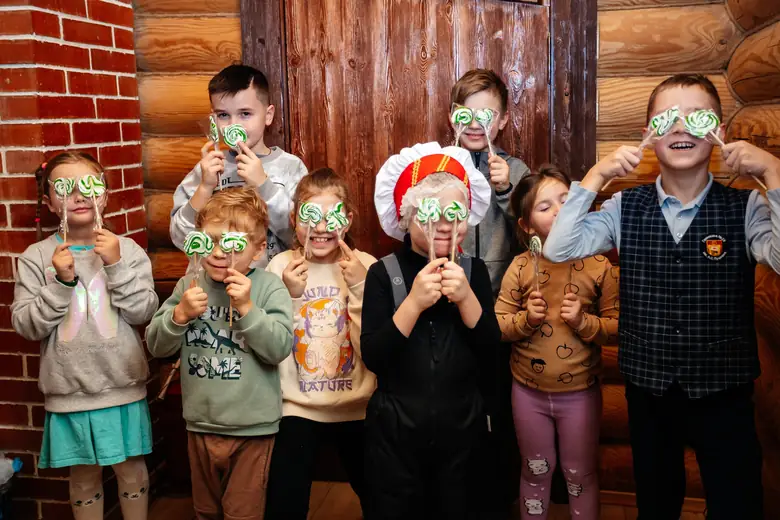
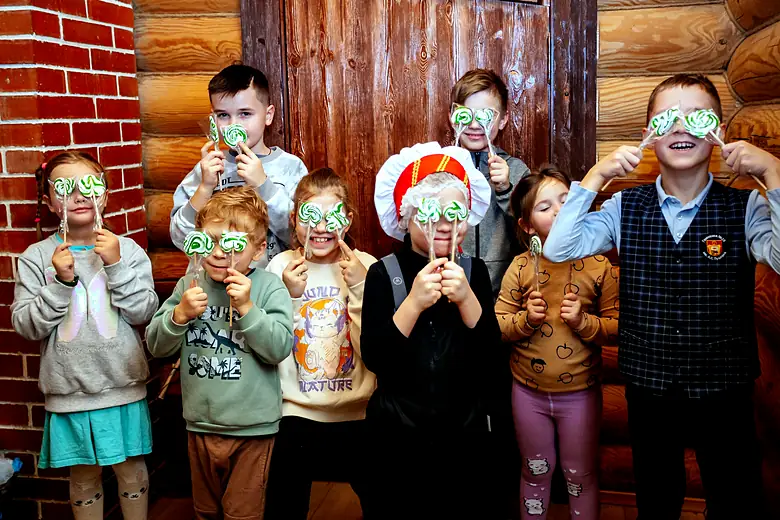
Лента фото: цветокоррекция пяти кадров
Кадры из папки «для обработки» (p15, p17, p18, p19, p46) пересобраны
из исходников: подъём теней, точки чёрного и белого, контраст,
насыщенность. У снимков в срубе перед подъёмом цвета частично выправлен
оранжевый перекос, иначе они становились не красочнее, а рыжее.
Размеры не менялись, обновлены средние цвета-заглушки.

diff --git a/v2.html b/v2.html
@@ -1653,12 +1653,12 @@ body{
   var PH = [
     [390,'#747c91'], [693,'#413124'], [390,'#887f84'], [390,'#7c402e'], [390,'#323518'], [405,'#572d49'],
     [390,'#1b4a19'], [693,'#2a1709'], [780,'#734f41'], [390,'#8e7170'], [390,'#01112b'], [390,'#956757'],
-    [921,'#4a4648'], [411,'#0f2d1c'], [829,'#5d4a44'], [390,'#3e2e32'], [780,'#6f4e3f'], [757,'#0b1927'],
-    [390,'#7c6554'], [390,'#775247'], [390,'#09161b'], [390,'#6b3524'], [390,'#371805'], [384,'#211435'],
+    [921,'#4a4648'], [411,'#0f2d1c'], [829,'#654f49'], [390,'#3e2e32'], [780,'#684d40'], [757,'#071a2c'],
+    [390,'#84705f'], [390,'#775247'], [390,'#09161b'], [390,'#6b3524'], [390,'#371805'], [384,'#211435'],
     [390,'#ac897a'], [390,'#8a6663'], [390,'#201512'], [390,'#684940'], [390,'#4c3e45'], [743,'#6d4f40'],
     [390,'#3f2444'], [390,'#775952'], [418,'#4e2b20'], [382,'#696c6e'], [390,'#867d69'], [390,'#7a5d4b'],
     [780,'#5a494e'], [390,'#72472e'], [390,'#8e7982'], [390,'#292528'], [390,'#60392d'], [390,'#3f251c'],
-    [390,'#432f22'], [637,'#5f5565'], [347,'#885950'], [861,'#614c3b'], [390,'#734d3f'], [390,'#845e4f'],
+    [390,'#432f22'], [637,'#5f5565'], [347,'#885950'], [861,'#65503f'], [390,'#734d3f'], [390,'#845e4f'],
     [385,'#5b2914'], [927,'#5a3a1f'], [693,'#754938'], [390,'#7d5343']
   ];
 
